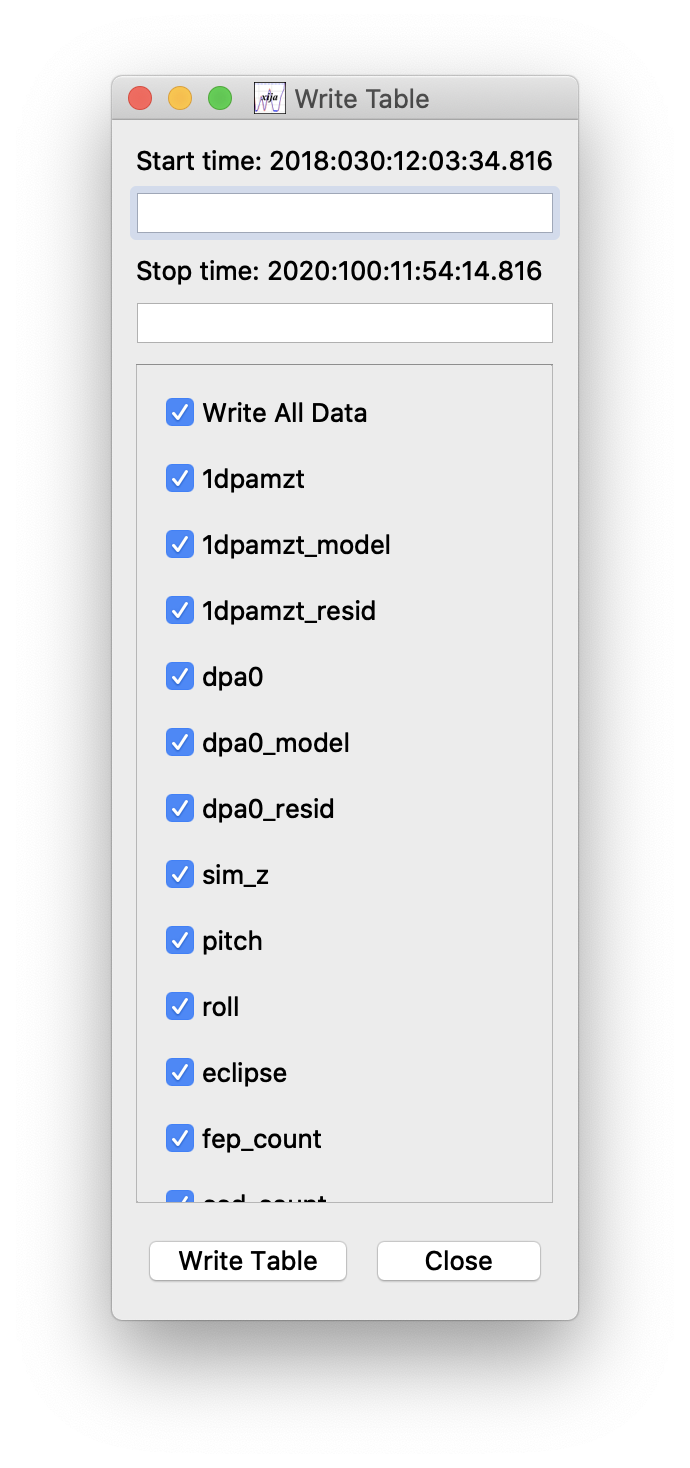
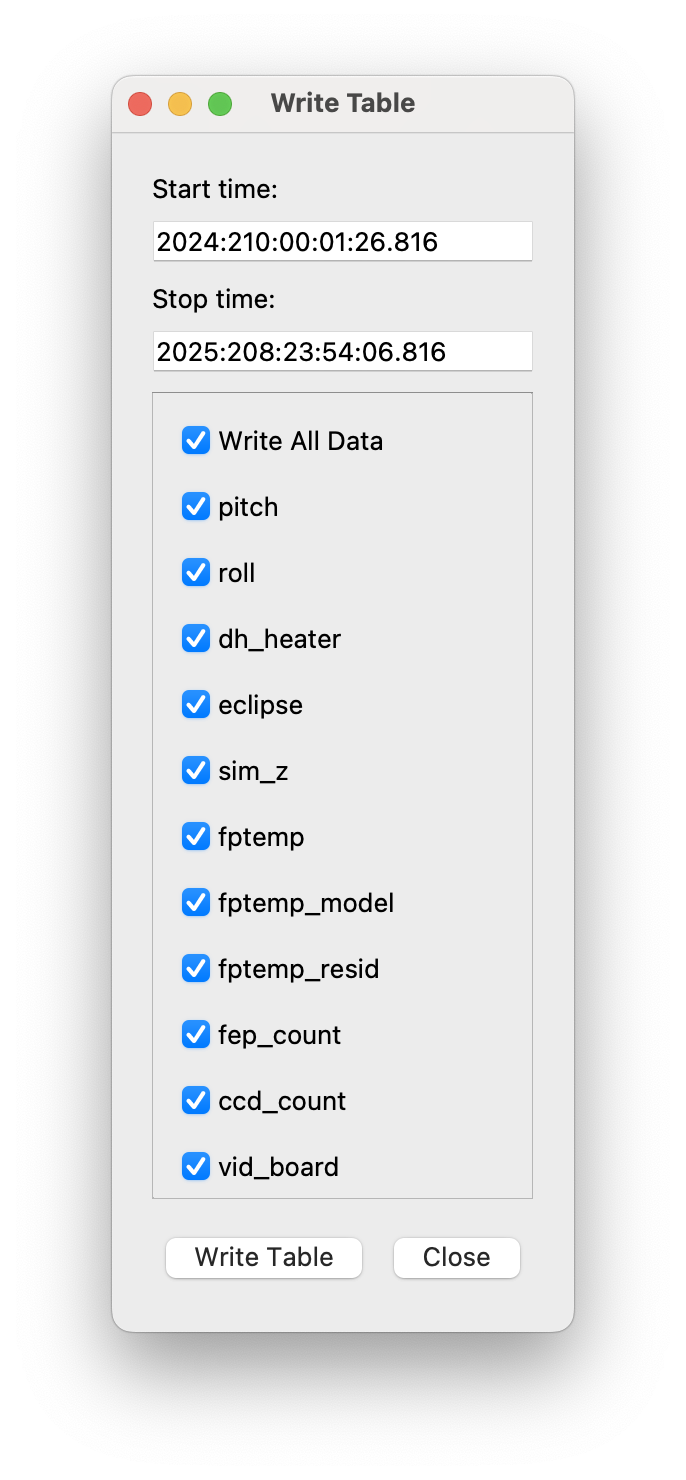
More work on documentation for gui_fit

Changed region(s): [[0.1531, 0.0613, 0.8571, 0.889], [0.5816, 0.8277, 0.7653, 0.889], [0.4898, 0.5824, 0.5816, 0.6131]]

diff --git a/docs/gui_fit.rst b/docs/gui_fit.rst
@@ -132,16 +132,9 @@ in the boxes will be updated to reflect the new values.
 If you enter an invalid time (e.g. a stop time before or equal to the start 
 time, or an invalid date string) or an invalid number of days (e.g. negative, 
 zero, or not a number), then the values will turn red until a valid value is
-entered:
-
-.. image:: change_times_bad.png
-
-If you enter bad values and then press "Change", a dialog will pop up to 
-remind you that the values are bad, with the messge depending on the reason:
-
-.. image:: change_times_msg1.png
-
-.. image:: change_times_msg2.png
+entered. If you enter bad values and then press "Change", a dialog will pop 
+up to remind you that the values are bad, with the message depending on the 
+reason.
 
 Manipulating Parameters
 -----------------------
@@ -304,12 +297,24 @@ The "Show limits" checkbox will overplot the thermal limits on the left histogra
 Filters...
 ^^^^^^^^^^
 
+If you enter an invalid start or stop date, then the bad value(s) will turn 
+red until a valid value is entered. If you enter bad values and then press 
+"Write Table", a dialog will pop up to remind you that the value(s) are bad, 
+with the message depending on the reason.
+
 Write Table...
 ^^^^^^^^^^^^^^
 
 It may be useful to take a number of model/data outputs associated with the
 fitting procedure and output to an ASCII table in the 
 `AstroPy ECSV format <https://docs.astropy.org/en/stable/io/ascii/write.html#ecsv-format">`_
-The ``Write Table`` button brings up a window which allows one to select from 
+The "Write Table..." menu item brings up a window which allows one to select from 
 the different quantities which are inputs to the model and its outputs, select 
-a time window within which to output data, and then write the quantities to the table. 
+a time window within which to output data, and then write the quantities to the table.
+
+.. image:: write_table.png
+
+If you enter an invalid start or stop date, then the bad value(s) will turn 
+red until a valid value is entered. If you enter bad values and then press 
+"Write Table", a dialog will pop up to remind you that the value(s) are bad, 
+with the message depending on the reason.
